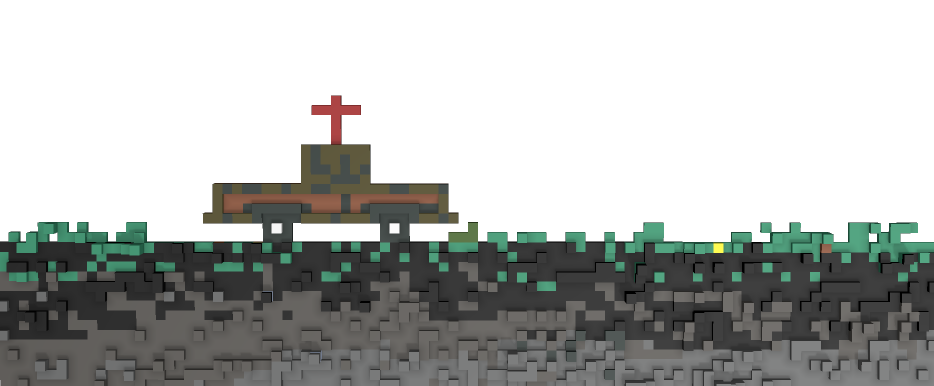
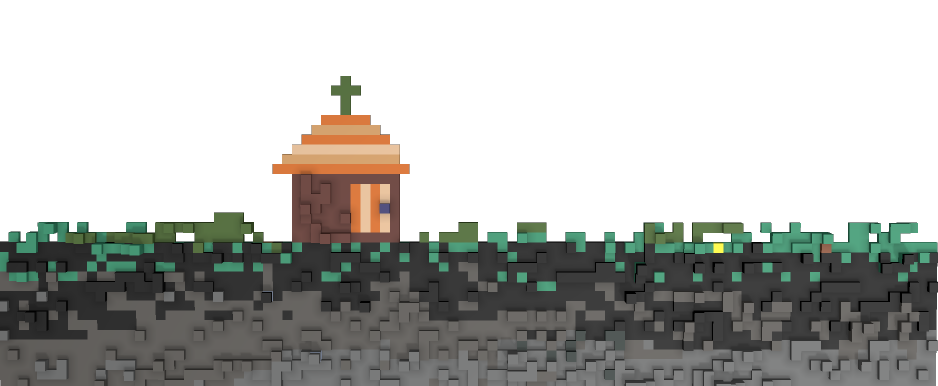
Improved art.

diff --git a/sloboda/flutter_service_worker.js b/sloboda/flutter_service_worker.js
@@ -149,7 +149,7 @@ const RESOURCES = {
 "assets/images/background/landing/c_5.jpg": "3a30dff864f014e5b77722421e59c3b1",
 "assets/images/background/landing/c_6.jpg": "48167f5d9435666ca4939ceb8bf51f23",
 "assets/images/background/landing/c_7.jpg": "582c6ca7853ec0f40849e8213b912c50",
-"assets/images/background/parallax/church_1.png": "249c55aef55b779c6d1c4e67db89610f",
+"assets/images/background/parallax/church_1.png": "bf2eb348680290d630a7bc866f55993a",
 "assets/images/background/parallax/church_2.png": "b91b7ab5f49bf08f5dad476f8f80a9ec",
 "assets/images/background/parallax/church_3.png": "281d3c1a8166e9b2dacc04683e191489",
 "assets/images/background/parallax/field_1.png": "7fc5a276eab88d1e7f9b11ceac4ab4b6",
